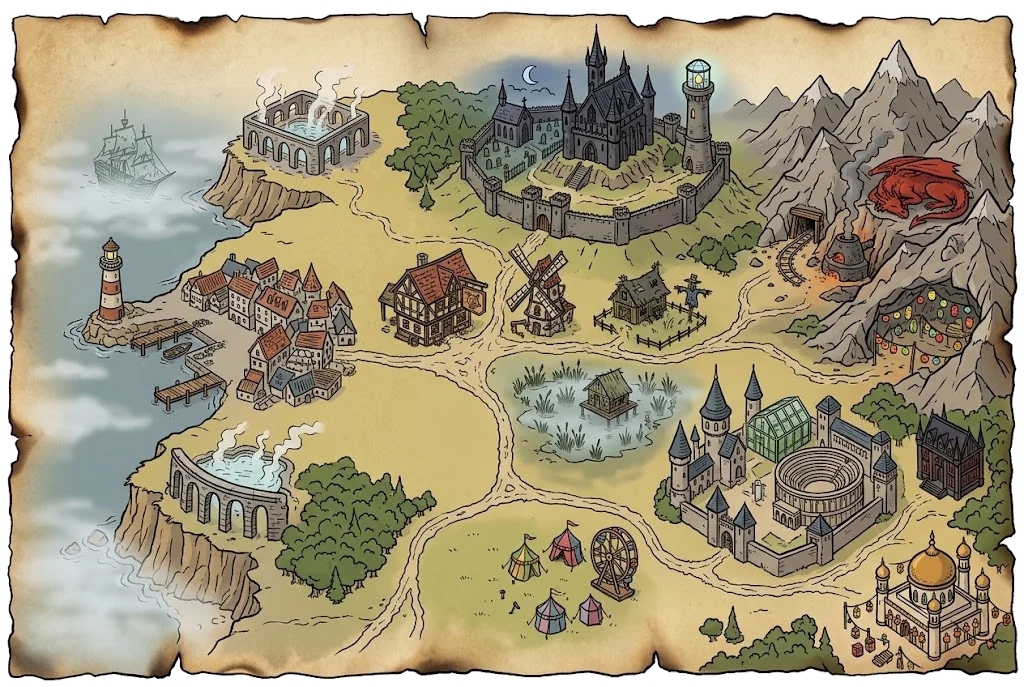
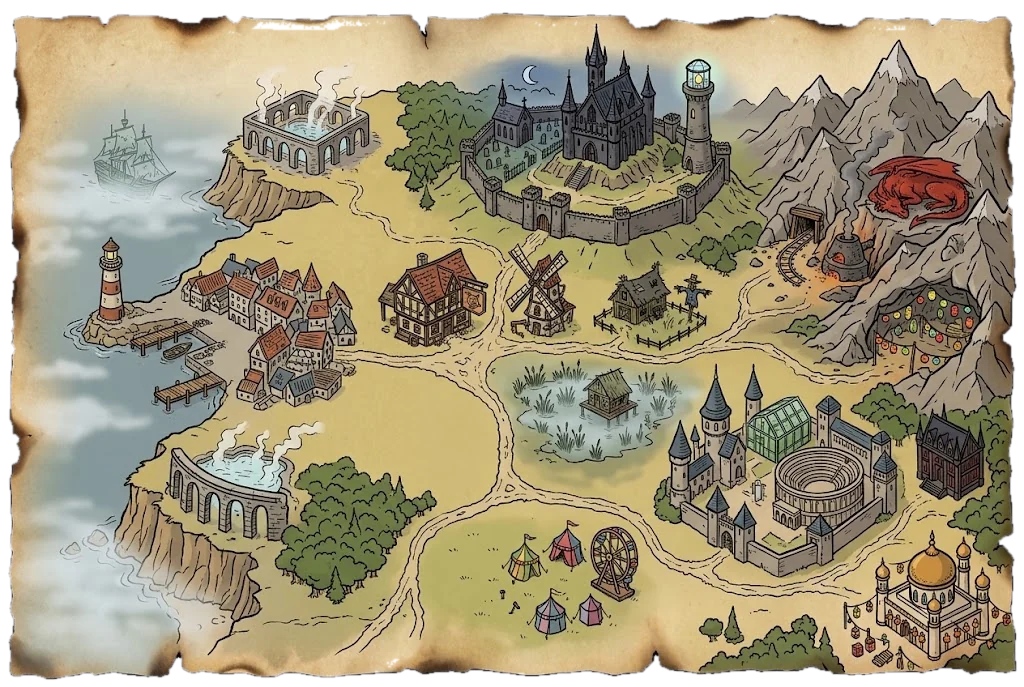
Carte : détourage sans liseré blanc (contour rogné, pixels clairs du bord effacés, arête adoucie)

diff --git a/tools/images.py b/tools/images.py
@@ -389,12 +389,25 @@ def carte():
     for src in sources(MAP_DIR):
         img = Image.open(src).convert('RGBA')
         img.thumbnail((2400, 2400), Image.LANCZOS)
-        # fond blanc autour du parchemin déchiré → transparent (remplissage depuis les quatre coins, presque-blanc compris)
-        from PIL import ImageDraw
+        # fond blanc autour du parchemin déchiré → transparent : remplissage depuis les quatre coins (presque-blanc
+        # compris), puis le liseré clair laissé par l'anticrénelage est effacé : contour rogné de 2 px, pixels presque
+        # blancs ôtés dans une bande de 10 px le long du bord, arête adoucie
+        from PIL import ImageDraw, ImageFilter, ImageChops
         w, h = img.size
+        probe = img.convert('RGB')
         for xy in ((0, 0), (w - 1, 0), (0, h - 1), (w - 1, h - 1)):
-            if min(img.getpixel(xy)[:3]) > 225:
-                ImageDraw.floodfill(img, xy, (255, 255, 255, 0), thresh=40)
+            if min(probe.getpixel(xy)) > 215:
+                ImageDraw.floodfill(probe, xy, (255, 0, 255), thresh=60)
+        bg = probe.point(lambda v: 0).convert('L')
+        r, g, b = probe.split()
+        bg = ImageChops.multiply(ImageChops.multiply(r.point(lambda v: 255 if v == 255 else 0), g.point(lambda v: 255 if v == 0 else 0)), b.point(lambda v: 255 if v == 255 else 0))
+        if bg.getbbox():
+            bg = bg.filter(ImageFilter.MaxFilter(5))                       # rogne 2 px
+            band = ImageChops.subtract(bg.filter(ImageFilter.MaxFilter(21)), bg)  # 10 px le long du bord
+            light = img.convert('L').point(lambda v: 255 if v > 205 else 0)
+            bg = ImageChops.lighter(bg, ImageChops.multiply(band, light))
+            alpha = ImageChops.invert(bg).filter(ImageFilter.GaussianBlur(.8))
+            img.putalpha(ImageChops.multiply(img.getchannel('A'), alpha))
         out = MAP_DIR / (type_name(src.stem) + '.webp')
         img.save(out, 'WEBP', quality=86, method=6)
         print(f'carte {src.name} → {out.name} {img.size} ({out.stat().st_size // 1024} Ko)')
